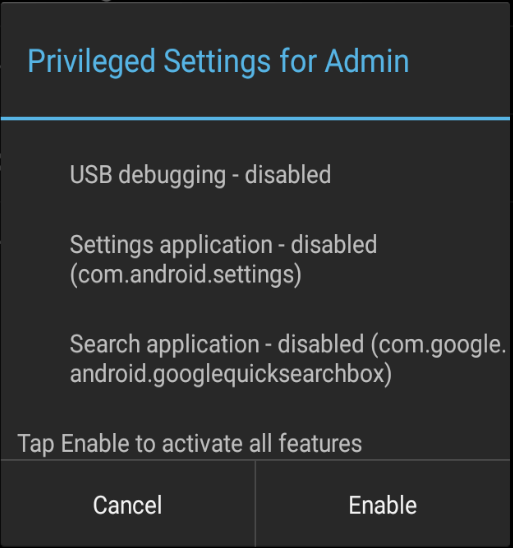
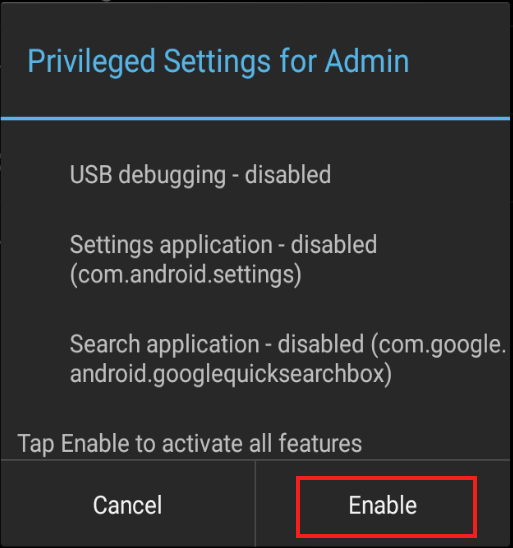
[TUT-24281] EHS 3.0 updates for Privileged Settings

Changed region(s): [[0.5614, 0.8686, 0.9357, 0.9927]]

diff --git a/src/ehs/3-0/guide/about/index.md b/src/ehs/3-0/guide/about/index.md
@@ -250,7 +250,7 @@ This version of Enterprise Home Screen has been approved for use with the Zebra 
 * **Support added for devices running Android 8.1 Oreo**.
 * **Foreground services can now be auto-launched** in devices running Oreo. 
 * **VectorDrawable format supported** for app launcher icons. [Learn more](https://developer.android.com/guide/topics/graphics/vector-drawable-resources). 
-* New **[Privileged Mode](../features/#privilegedmode)** automatically restricts certain settings when entering Admin Mode on a device. 
+* **[Privileged Settings](../features/#privilegedsettings)** feature requires manual activation of certain settings when entering Admin Mode on a device. 
 
 > **ABOUT OREO UPGRADES**: If the operating system on a device (except TC20/TC25) is being upgraded to Android 8.1 Oreo from Marshmallow or Nougat, **<u>the previous EHS installation must be removed before EHS 3.0 is installed</u>**. Follow instructions to [uninstall EHS](../guide/setup#uninstallation) before installing EHS on an Oreo device. <br><br>**Note**: Prior configuration settings, if any, are re-applied automatically.
  
@@ -276,7 +276,7 @@ Now supports these devices **running Android 8.1 Oreo**
 
 * **Support for Android 5.x Lollipop is dropped**. Use [EHS 2.8](/ehs/2-8/guide/about) if Lollipop support is required. 
 * **Bypass Keyguard feature is dropped -** Use [DevAdmin](/mx/devadmin) through Zebra EMDK or StageNow tools to configure this setting. 
-* **Secure Mode feature is dropped -** Log files no longer designate "SECURED" or "UNSECURED" in log entries. 
+* **Secure Mode feature is dropped -** Log files are no longer designated as "SECURED" or "UNSECURED" in log entries. 
 
 -----
 
@@ -298,6 +298,20 @@ ABOVE NOTE REPLICATED ON SETTINGS PAGE
 
 * **When referencing a file stored on a removable SD Card in a device running Android M or N**, references to that card must include its symbolic link rather than its direct path. For example, while the file path on pre-M devices might be visible as `/storage/sdcard1/image.png`, the same path on M and N devices might appear in the file browser something like `/storage/0097-B7BA/image.png`. The symbolic link (which in this case is "0097-B7BA") is **<u>unique to the device</u>**. Therefore, **Zebra recommends avoiding the use of removable storage in mass-deployment scenarios**. 
 
+**_Applies to devices running Android Marshmallow 6.x and higher_**:
+
+* **[Airplane Option Disabled](../settings#airplaneoptiondisabled) feature cannot be controlled through EHS on devices running Android M or N**. For devices on which the "Airplane option disabled" feature appears "grayed out" in the Admin-Mode Preferences panel, it might still be possible to access the feature using the [Power Key Manager](/mx/powerkeymgr) through Zebra EMDK or StageNow tools.
+
+<!-- 
+ABOVE NOTE REPLICATED ON SETTINGS PAGE 
+-->
+
+* **Some devices retain the "Recent Apps" list after device reboot**, posing a potential security risk. EHS 2.7 (and higher) disables the Recent Apps button on <u>Nougat devices only</u> to help address this risk. For all devices, the list can be cleared using [App Manager](/mx/appmgr) through Zebra EMDK, StageNow or a third-party MDM system. For more information, see [Security Notes](../features#securitynotes) in the Advanced Features section. 
+
+* **[Kiosk Mode](../features#kioskmode) should not be used with Screen Pinning**, a feature implemented in Android L and higher that works in a similar way.
+
+* **[Screen orientation](../settings#orientation) can be changed through the Quick Settings panel on devices** <u>only</u> when EHS is configured to accept the System orientation setting (the EHS default). If an EHS administrator sets the orientation to landscape or portrait mode, the device user will no longer be able to change the orientation setting.
+
 ------
 
 ### Android Marshmallow Notes
@@ -310,23 +324,6 @@ ABOVE NOTE REPLICATED ON SETTINGS PAGE
 * **If Wi-Fi is disabled** on a Marshmallow device, the MAC address will be shown as "Unknown" in the "Wireless info" screen in EHS.
 
 -----
-
-### Android Marshmallow and Nougat Notes 
-**_Applies to devices running Android Marshmallow 6.x and higher_**:
-
-* **[Airplane Option Disabled](../settings#airplaneoptiondisabled) feature cannot be controlled through EHS on devices running Android M or N**. For devices on which the "Airplane option disabled" feature appears "grayed out" in the Admin-Mode Preferences panel, it might still be possible to access the feature using the [Power Key Manager](/mx/powerkeymgr) through Zebra EMDK or StageNow tools.
-
-<!-- 
-ABOVE NOTE REPLICATED ON SETTINGS PAGE 
--->
-
-* **Devices running Android M and higher retain the "Recent Apps" list after device reboot**, posing a potential security risk. EHS 2.7 (and higher) disables the Recent Apps button on <u>Nougat devices only</u> to help address this risk. For all devices, the list can be cleared using [App Manager](/mx/appmgr) through Zebra EMDK, StageNow or a third-party MDM system. For more information, see [Security Notes](../features#securitynotes) in the Advanced Features section. 
-
-* **[Kiosk Mode](../features#kioskmode) should not be used with Screen Pinning**, a feature implemented in Android L and higher that works in a similar way.
-
-* **[Screen orientation](../settings#orientation) can be changed through the Quick Settings panel on devices running Android M and higher** <u>only</u> when EHS is configured to accept the System orientation setting (the EHS default). If an EHS administrator sets the orientation to landscape or portrait mode, the device user will no longer be able to change the orientation setting.
-
-------
 
 ### ET50/ET55 Device Notes
 

diff --git a/src/ehs/3-0/guide/features/index.md b/src/ehs/3-0/guide/features/index.md
@@ -68,50 +68,42 @@ Kiosk Mode can be controlled from within an Android application using Android In
 On devices running Android 8.x Oreo, certain features once automatically enabled when entering Admin Mode must now be enabled manually. EHS refers to these as Privileged Settings, and they are:
 
 * USB Debugging (which enables file transfer)
-* Android Settings panel
-* Google Search app
+* The Android Settings panel
+* The Google Search app
 
-The Privileged Settings state on the device is indicated by a pop-up dialog when the user enters Admin Mode: 
+The Privileged Settings state on the device is indicated by a pop-up whenever the user enters Admin Mode: 
 <img alt="" style="height:150px" src="Priviledged_03.png"/>
-_Tap "OK" to dismiss the dialog_. 
+_Tap "OK" to dismiss_. 
 <br>
 
-Settings are enabled as a group through a UI control in Admin Mode and are disabled automatically when re-entering User Mode.
+All three Privileged Settings are enabled as a group through an Admin-mode UI control and are disabled automatically when re-entering User Mode.
 
 **To access Privileged Settings**: 
 
-2. While in Admin Mode, **go to Tools -> Privileged Settings for Admin**: 
-<img alt="" style="height:150px" src="Priviledged_05.png"/>
+1. While in Admin Mode, **go to Tools -> Privileged Settings for Admin**: 
+<img alt="" style="height:200px" src="Priviledged_05.png"/>
 <br>
-3. The current state (disabled) is shown. <br> **Press "Enable" to activate all three features**: 
-<img alt="" style="height:150px" src="Priviledged_01.png"/>
+2. The current state (disabled) is shown. <br> **Tap "Enable" to activate Privileged Settings**: 
+<img alt="" style="height:200px" src="Priviledged_01.png"/>
 <br>
-4. Features are enabled immediately. **Tap "OK" to dismiss** the dialog.
-<img alt="" style="height:150px" src="Priviledged_02.png"/>
+3. Privileged Settings are enabled immediately. **Tap "OK" to continue**.
+<img alt="" style="height:200px" src="Priviledged_04.png"/>
 <br>
 
-**To restore default settings to Admin Mode**: 
+-----
+
+**To disable Privileged Settings**: 
 
 2. **Go to Tools -> Privileged Settings for Admin**: 
-<img alt="" style="height:150px" src="Priviledged_05.png"/>
+<img alt="" style="height:200px" src="Priviledged_05.png"/>
 <br>
-3. The current state (enabled) is shown. <br> **Press "Restore" to disable all three features**: 
-<img alt="" style="height:150px" src="Priviledged_02.png"/>
+3. The current state (enabled) is shown. <br> **Tap "Restore" to disable all three features**: 
+<img alt="" style="height:200px" src="Priviledged_02.png"/>
 <br>
-4. Features are disabled immediately and a confirmation dialog appears.<br>**Tap "OK" to dismiss**.
-<img alt="" style="height:150px" src="Priviledged_03.png"/>
-<br>
-
-
-<!-- 
-
-<img alt="" style="height:450px" src="Priviledged_04.png"/>
-_All three Privileged Settings are enabled and disabled as a group_.
+4. Features are disabled immediately and a confirmation dialog appears.<br>**Tap "OK" to continue**.
+<img alt="" style="height:200px" src="Priviledged_03.png"/>
 <br>
 
-
-
- -->
 ------
 
 ## EHS Log
@@ -124,7 +116,7 @@ For more information about logging, see [Logging Preferences](../settings/#loggi
 _In EHS 2.7 and higher, logging is disabled through the UI or config file._
 <br>
 
-**IMPORTANT**: Secure Mode is discontinued in EHS 3.0 and higher. 
+**IMPORTANT**: Secure Mode is discontinued in EHS 3.0 and higher. Log files are no longer designated as "SECURED" or "UNSECURED" in log entries.  
 
 ------
 
@@ -136,8 +128,7 @@ This section covers important interactions between EHS and Android features that
 * Accessing an app from the Recent Apps list could represent a security risk; apps not cleared from the list can be activated with the BACK button, potentially exposing a non-EHS home screen.
 * On Android Nougat devices, **the Recent Apps button can be Enabled/Disabled**. It is disabled by default to prevent the use of multi-window mode. 
 * EHS does not add apps or activities to the Android Recent Apps list, but apps/activities launched from within EHS might. Such apps/activities could launch others that might appear on the Recent Apps list and pose a security risk.  
-* The Recent Apps list can be cleared on pre-Android L devices by rebooting the device. 
-* Android L devices retain the Recent Apps list after a reboot. Use [App Manager](/mx/appmgr) through EMDK, StageNow or a third-party EMM system to clear the list. 
+* Some devices retain the Recent Apps list after a reboot. Use [App Manager](/mx/appmgr) through EMDK, StageNow or a third-party EMM system to clear the list. 
 * To manually clear Recent Apps, bring up the Recent Apps list by long-pressing the Home or Menu button (depending on the device) until the list appears, then swipe away each app.
 
 ### EHS and MX Multi-user
